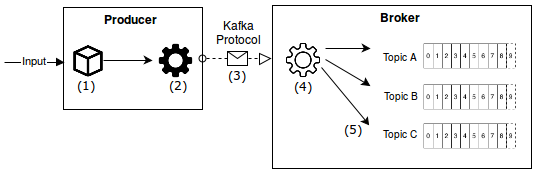
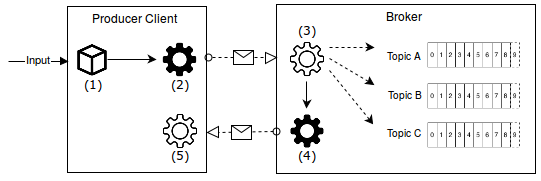
restructuring and introducing chapter specs for giving general requirements for the implementation,

diff --git a/architecture.tex b/architecture.tex
@@ -1,4 +1,6 @@
 \chapter{Architecture}
+\section{Introduction}
+
 
 \section{System Overview}
 Basically, the architecture consists of two main components namely the broker and
@@ -30,17 +32,20 @@ with a client without a request.
      broker}
 \end{figure}
 
-\section{Prototype}
-For demonstrating the architecture of this project we implement an architecture
-prototype which shows basic functionality of producing a message from a client A
-omplete) a  topic specific log at the broker and in turn consuming it from another
-client B. It fully implements the produce and fetch request with their
-appropriate responses of the Kafka protocol for communication over network.
-Therefore the producer and consumer clients are compatible with original Apache
-Kafka broker.
+\subsection{Producer Client}
+Depending on which API key a request contains, a client can act either as
+producer or consumer. In the case of a producer client, the following main steps
+are made.
+%For demonstrating the architecture of this project we implement an architecture
+%prototype which shows basic functionality of producing a message from a client A
+%omplete) a  topic specific log at the broker and in turn consuming it from another
+%client B. It fully implements the produce and fetch request with their
+%appropriate responses of the Kafka protocol for communication over network.
+%Therefore the producer and consumer clients are compatible with original Apache
+%Kafka broker.
 
-The functionality of the architecture prototype can be split in two cases.
-Case one covers producing a message and persisting in the brokers log:
+%The functionality of the architecture prototype can be split in two cases.
+%Case one covers producing a message and persisting in the brokers log:
 \begin{figure}[H]
     \centering
     \includegraphics[width=0.8\textwidth]{images/concept_producer.png}
@@ -48,18 +53,29 @@ Case one covers producing a message and persisting in the brokers log:
     \label{fig:conept-producer}
 \end{figure}
 
-\begin{table}[h]
-\begin{tabular}{ll}
-1  & Packing input message in data structure                                                          \\
-2  & Serializing of data structure to byte string. The algorithm implements the Kafka protocol.       \\
-3 & Transmitting byte string via TCP socket over network                                             \\
-4  & Receiving and parsing byte string back to data structure                                         \\
-5   & Write Message into topic specific log. The resulting file has same structure than the Kafka Log has.
-\end{tabular}
-\end{table}
+\begin{description}
+    \item [(1) Packing Produce Request:] 
+    {Getting input data to protocol conform data structure.}
+    \item [(2) Serializing and send Produdce Request:]  
+        {Encoding data structure to an binary  string and transmit over a tcp
+        socket to the broker.}
+    \item [(3) Parsing and Handling Produce Request:] 
+        {Broker receives the binary string and parse it back to the appropriate
+        data structure. The request handler of the  broker checks the
+        API Key of the request. If it is a produce request, the containg
+        message will be written to the appropriate topic log.}
+    \item [(4) Send Produce Response:]  
+        {A response is packed, serialized and transmitted back to the client.
+            The response contains an error code which has the value 0 if everything worked well
+        otherwise another value for a specific problem. }
+    \item [(5) Parse Produce Response:] 
+        {Producer client receives a binary string and parses it to valid response data
+        structure }
+\end{description}
 
-Case two covers the part of consuming from a specific topic. Because Kafka works with 
-pull-based consumption, the consumer fetch its messages with a constantly requesting it. 
+\subsection{Consumer Client}
+Like Apache Kafka, our architecutre is based on pull-based consumption. The consumer
+fetchs it desired messages through requesting it at any time. 
 
 \begin{figure}[H]
     \centering
@@ -68,16 +84,23 @@ pull-based consumption, the consumer fetch its messages with a constantly reques
     \label{fig:concept-consumer}
 \end{figure}
 
-\begin{table}[h]
-\begin{tabular}{ll}
-1  & Continuously send fetch request to broker implementing Kafka protocol \\
-2  & Parse fetch request to data structure                                 \\
-3  & Read messages from log of specified topic                             \\
-4  & Serialize messages as response into byte string.                      \\
-5  & Transmitting byte string back to consumer                             \\
-6  & Parse response from broker to get messages                           
-\end{tabular}
-\end{table}
+\begin{description}
+    \item [(1) Continously send fetch request:] {Consumer client sends fetch
+        requests in configurable intervall as binary string to the broker. } 
+    {Getting input data to protocol conform data structure.}
+    \item [(2) Parsing and handling fetch request:]]  
+        {Broker receives the binary string and parse it back to the appropriate
+        data structure. The request handler of the broker checks the
+        API Key of the request. If it is a fetch request, the broker reads
+        messages of the requested topic and packs it to a fetch response. 
+        message will be written to the appropriate topic log.}
+    \item [(3) Send fetch response:]  
+        {The fetch request which contains the requested messages is send back to
+        the consumer client.}
+    \item [(4) Parse Response:] 
+        {Consumer client receives a binary string and parses it to valid response data
+        structure }
+\end{description}
 
 \section{Design decisions}
 \subsection{Protocol}
@@ -110,6 +133,14 @@ common functionality to simplify the use of the protocol implementation.
     \label{fig:architecture-components.png}
 \end{figure}
 
+\subsection{Broker Subsystems}
+The broker server application is devided into three subsystems. 
+
+\subsection{Broker Threading}
+TODO: Threading and channeling concept 
+
+\subsection{Persistency}
+TODO: persistet in ordered Logs
 
 
 %\section{Packages, Modules and Dependencies}

diff --git a/specification.tex b/specification.tex
@@ -1,0 +1,36 @@
+\chapter{Specification}
+\section{Purpose}
+The prestudy of this thesis gives an insight in the fundamentals of messaging, especially
+the purpose of message brokers for big data event streaming. We also compare
+the most related broker implementations and provide detailed information about Apache
+Kafka. The second part of this work is focusing on the implementation of a message
+broker in the functional program language Haskell\todo{ref}. The goal is to get
+use of the advantages of the functional paradigm regarding to the resulting
+throughput performance. By using the example of Apache Kafka the main purpose
+lies on building a server application which implements the main functionality of
+Apache Kafka. 
+
+\section{Functionality}
+\begin{table}[h]
+\begin{tabular}{lll}
+\textbf{Functionality}       & \textbf{Description} & \textbf{Part of Thesis} \\
+Server Implementation        &                      & yes                     \\
+Wire Protocol Implementation &                      & yes                     \\
+API for Haskell Clients      &                      & yes                     \\
+Thin Haskell Clients         &                      & yes                     \\
+Producing Messages           &                      & yes                     \\
+Consuming Messages           &                      & yes                     \\
+Log Persistency              &                      & yes                     \\
+Error Handling               &                      & yes                     \\
+Message Batching             &                      & yes                     \\
+Message Compression          &                      & no                      \\
+Partitioning                 &                      & partly                  \\
+Broker Replication           &                      & no                      \\
+Broker Recovery              &                      & no                      \\
+Consumer Groups              &                      & no                      \\
+Zookeeper Integration        &                      & no                     
+\end{tabular}
+\end{table}
+
+\section{Non functional Requirements}
+

diff --git a/documentation.tex b/documentation.tex
@@ -22,6 +22,7 @@
 \include{introduction_log}
 
 \part{Technical report}
+\include{specification}
 \include{architecture}
 \include{implementation_broker}
 
